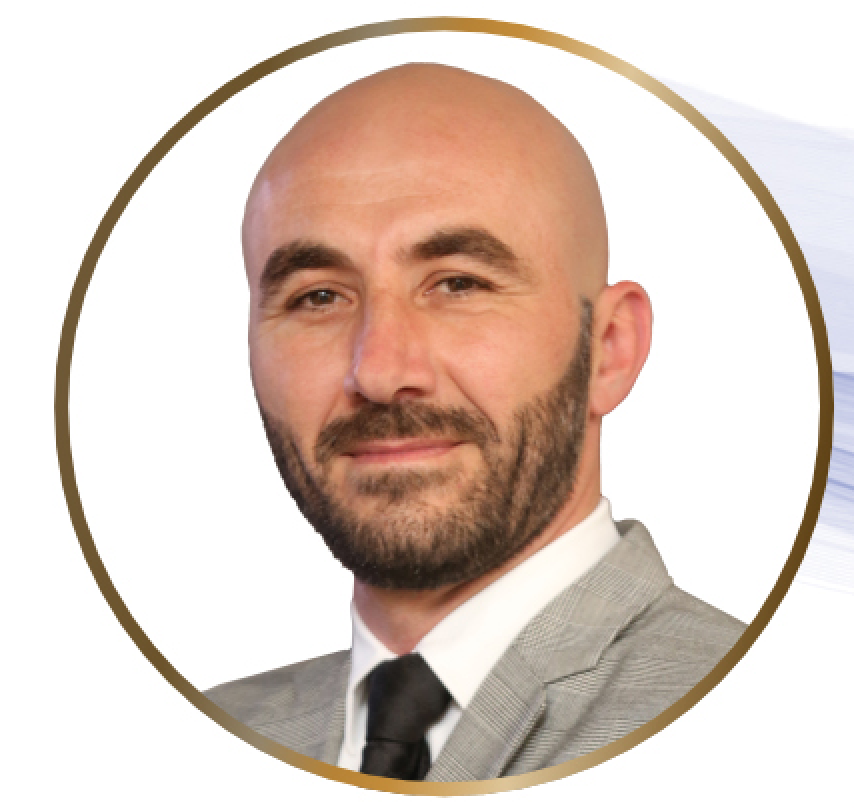
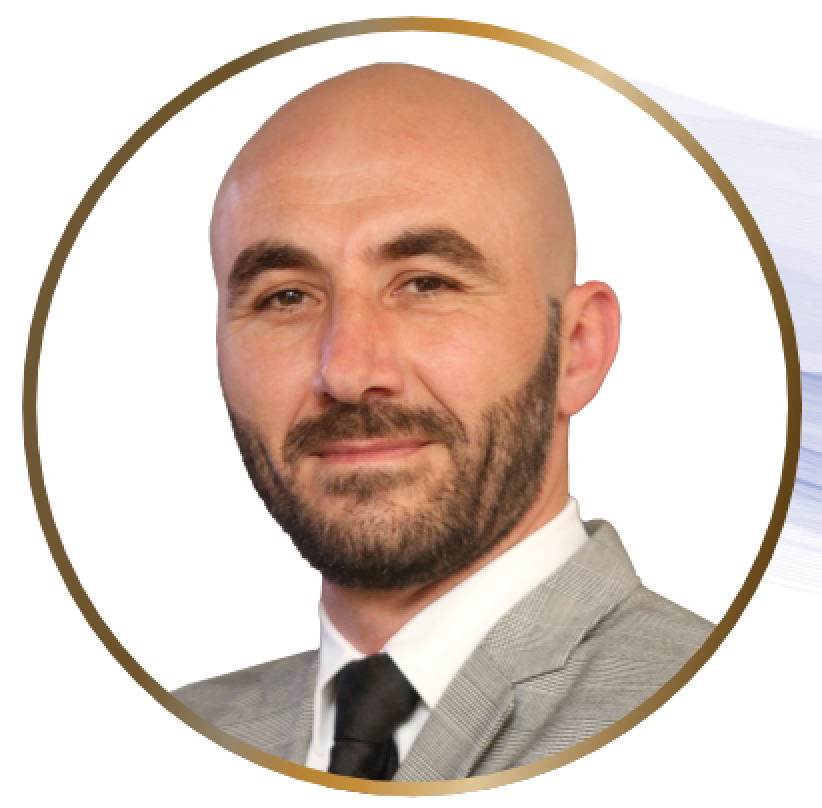
UI changes

Changed region(s): [[0.0, 0.0, 0.9732, 0.9901], [0.365, 0.0928, 0.4258, 0.1238]]

diff --git a/components/ReadyToGetStart.jsx b/components/ReadyToGetStart.jsx
@@ -121,31 +121,39 @@ const ReadyToGetStart = () => {
                   Stop Guessing. Start Executing.
                 </h2>
                 <p
-                  className={`my-4 text-center text-[26px] leading-[1.2] text-[#2A2A2A]`}
+                  className={`my-6 text-center text-[26px] leading-[1.2] text-[#2A2A2A]`}
                 >
                   <AnimatedText text="Court-supervised real estate requires a high standard of precision, compliance, and specialized expertise. Stop navigating probate, conservatorship, or trust property sales through uncertainty." />
                   <br />
-                  Call{" "}
-                  <span style={{ color: "#0097A7" }} className="font-semibold">
-                    <AnimatedText text="(833) PROBAID — " />
-                  </span>{" "}
-                  <span style={{ color: "#FE7702" }} className="font-semibold">
-                    <AnimatedText text="(833) 776-2243 — NOW " />
-                  </span>{" "}
-                  <AnimatedText text="or" />{" "}
-                  <AnimatedText text="fill out the " />
-                  <Link
-                    href="/homebooks/833probaid-referral-intake"
-                    style={{
-                      color: "#0097A7",
-                      textDecoration: "underline",
-                    }}
-                  >
-                    <span>
-                      <AnimatedText text="FORM" />
-                    </span>
-                  </Link>{" "}
-                  <AnimatedText text=" for a Strategic Consultation. We eliminate the red tape, protect the estate’s equity, and manage the transaction to a clean, court-approved closing." />
+                  <span className="mt-2 block">
+                    Call{" "}
+                    <span
+                      style={{ color: "#0097A7" }}
+                      className="font-semibold"
+                    >
+                      <AnimatedText text="(833) PROBAID — " />
+                    </span>{" "}
+                    <span
+                      style={{ color: "#FE7702" }}
+                      className="font-semibold"
+                    >
+                      <AnimatedText text="(833) 776-2243 — NOW " />
+                    </span>{" "}
+                    <AnimatedText text="or" />{" "}
+                    <AnimatedText text="fill out the " />
+                    <Link
+                      href="/homebooks/833probaid-referral-intake"
+                      style={{
+                        color: "#0097A7",
+                        textDecoration: "underline",
+                      }}
+                    >
+                      <span>
+                        <AnimatedText text="FORM" />
+                      </span>
+                    </Link>{" "}
+                    <AnimatedText text=" for a Strategic Consultation. We eliminate the red tape, protect the estate’s equity, and manage the transaction to a clean, court-approved closing." />
+                  </span>
                 </p>
               </div>
             </foreignObject>

diff --git a/app/new-page/NewBook.jsx b/app/new-page/NewBook.jsx
@@ -75,7 +75,7 @@ export function LearnMoreButton({
         }}
       />
       <button
-        className="inline-flex items-center gap-2 sm:gap-1 px-2 sm:h-[38px] lg:h-[55px] xl:h-[70px] lg:gap-3 rounded-[8px] pl-2.5"
+        className="inline-flex items-center gap-2 sm:gap-1 px-2 h-[48px] sm:h-[38px] lg:h-[55px] xl:h-[70px] lg:gap-3 rounded-[8px] pl-2.5"
         type="button"
         onClick={onClick}
         onMouseEnter={() => setHov(true)}
@@ -89,7 +89,7 @@ export function LearnMoreButton({
             "inset 5.46px -5.46px 3.64px 0px #00000040, inset -3.64px 4.55px 3.64px 0px #FFFFFF40",
         }}
       >
-        <span className="font-montserrat font-black sm:text-[13px] lg:text-[18px] xl:text-[23px] uppercase text-white tracking-wide [text-shadow:1_2px_1.6px_rgba(0,0,0,0.82),0_0_6px_rgba(255,255,255,0.25)]">
+        <span className="font-montserrat font-black text-[18px] sm:text-[13px] lg:text-[18px] xl:text-[23px] uppercase text-white tracking-wide [text-shadow:1_2px_1.6px_rgba(0,0,0,0.82),0_0_6px_rgba(255,255,255,0.25)]">
           {label}
         </span>
         <Image
@@ -98,7 +98,7 @@ export function LearnMoreButton({
           width={100}
           height={100}
           priority
-          className="object-contain sm:h-[18px] sm:w-[18px] lg:h-[45px] lg:w-[45px]"
+          className="object-contain h-[48px] w-[35px] sm:h-[18px] sm:w-[18px] lg:h-[45px] lg:w-[45px]"
           style={{
             transform: `rotate(${arrowRotation})`,
             transition: "transform 400ms ease",

diff --git a/app/HomePageClient.jsx b/app/HomePageClient.jsx
@@ -166,6 +166,7 @@ export default function HomePageClient({ initialHomeCardData = [] }) {
               <h1 className="font-anton text-center text-2xl md:text-3xl lg:text-4xl xl:text-[55px] flex flex-col justify-center items-center gap-1 sm:gap-3">
                 <AnimatedText
                   text="Selling a Probate, Trust, Or"
+                  className="text-header"
                   as="div"
                   animate={true}
                 />
@@ -184,7 +185,7 @@ export default function HomePageClient({ initialHomeCardData = [] }) {
                 />
               </h4>
               <div className="mt-3">
-                <p className="font-montserrat text-center font-medium text-[15.8px] md:text-xl lg:text-2xl">
+                <p className="font-montserrat text-center font-bold text-[15.8px] md:text-xl lg:text-2xl">
                   <AnimatedText
                     text="Whether you're navigating probate, managing a trust, or dealing with conservatorship property, we understand that you've got a lot on your plate. Let us help you get your property"
                     animate={false}

diff --git a/components/Home/Hero.jsx b/components/Home/Hero.jsx
@@ -11,7 +11,7 @@ const Hero = () => {
 				transition: transform 0.5s cubic-bezier(0.34, 1.56, 0.64, 1);
 			}
 			.hero-btn-float:hover img {
-				transform: rotate(-2deg) scale(1.08);
+				transform: rotate(2deg) scale(1.08);
 			}
 			@keyframes heroBtnFloat {
 				0%, 100% { transform: translateY(0px); }

diff --git a/components/BlogHero.jsx b/components/BlogHero.jsx
@@ -138,7 +138,7 @@ export default function BlogHero({
             borderRadius: "50%",
             objectFit: "cover",
             flexShrink: 0,
-            alignSelf: "center",
+            alignSelf: "right",
           }}
         />
         <span

diff --git a/app/global.css b/app/global.css
@@ -33,6 +33,7 @@ section {
   --color-botMessage: #ffffff;
   --color-voiceActive: #ff4444;
   --color-voiceInactive: #666666;
+  --color-header: #2A2A2A
 
   --ease-out: cubic-bezier(0.24, 0, 0.38, 1);
 
